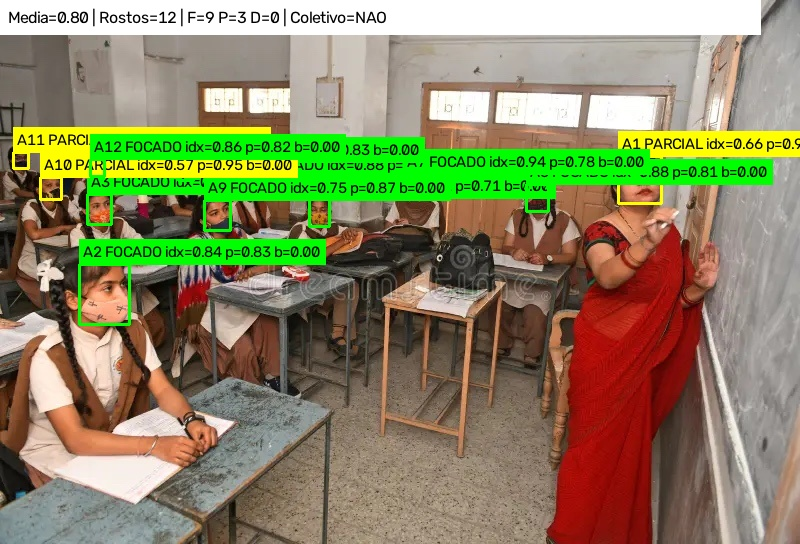
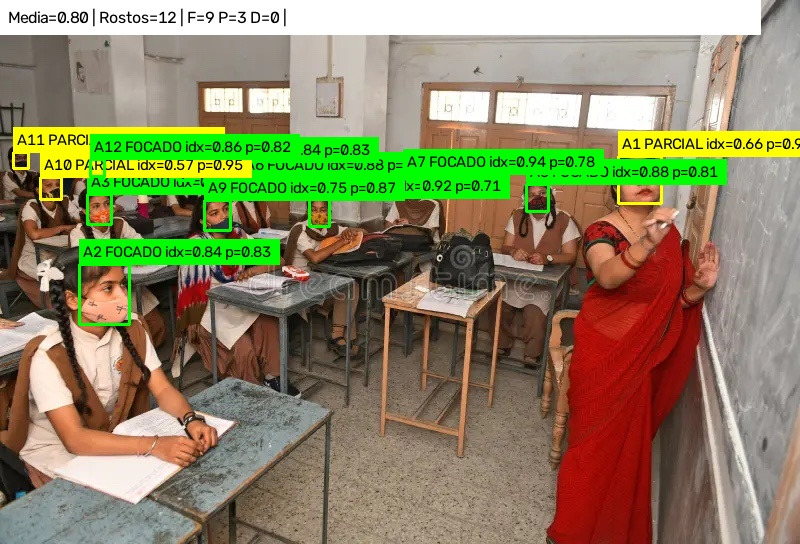
imagens testes atualizadas

diff --git a/Source/AI/src/testar_imagens_foca.py b/Source/AI/src/testar_imagens_foca.py
@@ -300,7 +300,6 @@ class TestadorFoca:
                 f"A{aluno['aluno']} {aluno['status']} "
                 f"idx={aluno['indice']:.2f} "
                 f"p={aluno['proporcao']:.2f} "
-                f"b={aluno['boca']:.2f}"
             )
             self._desenhar_rotulo(saida, texto, x1, y1, cor)
 
@@ -309,7 +308,6 @@ class TestadorFoca:
             f"Rostos={resultado['total_alunos']} | "
             f"F={resultado['focados']} P={resultado['parciais']} "
             f"D={resultado['distraidos']} | "
-            f"Coletivo={'SIM' if resultado['modo_coletivo'] else 'NAO'}"
         )
 
         cv2.rectangle(saida, (0, 0), (min(saida.shape[1], 760), 34), (255, 255, 255), -1)
